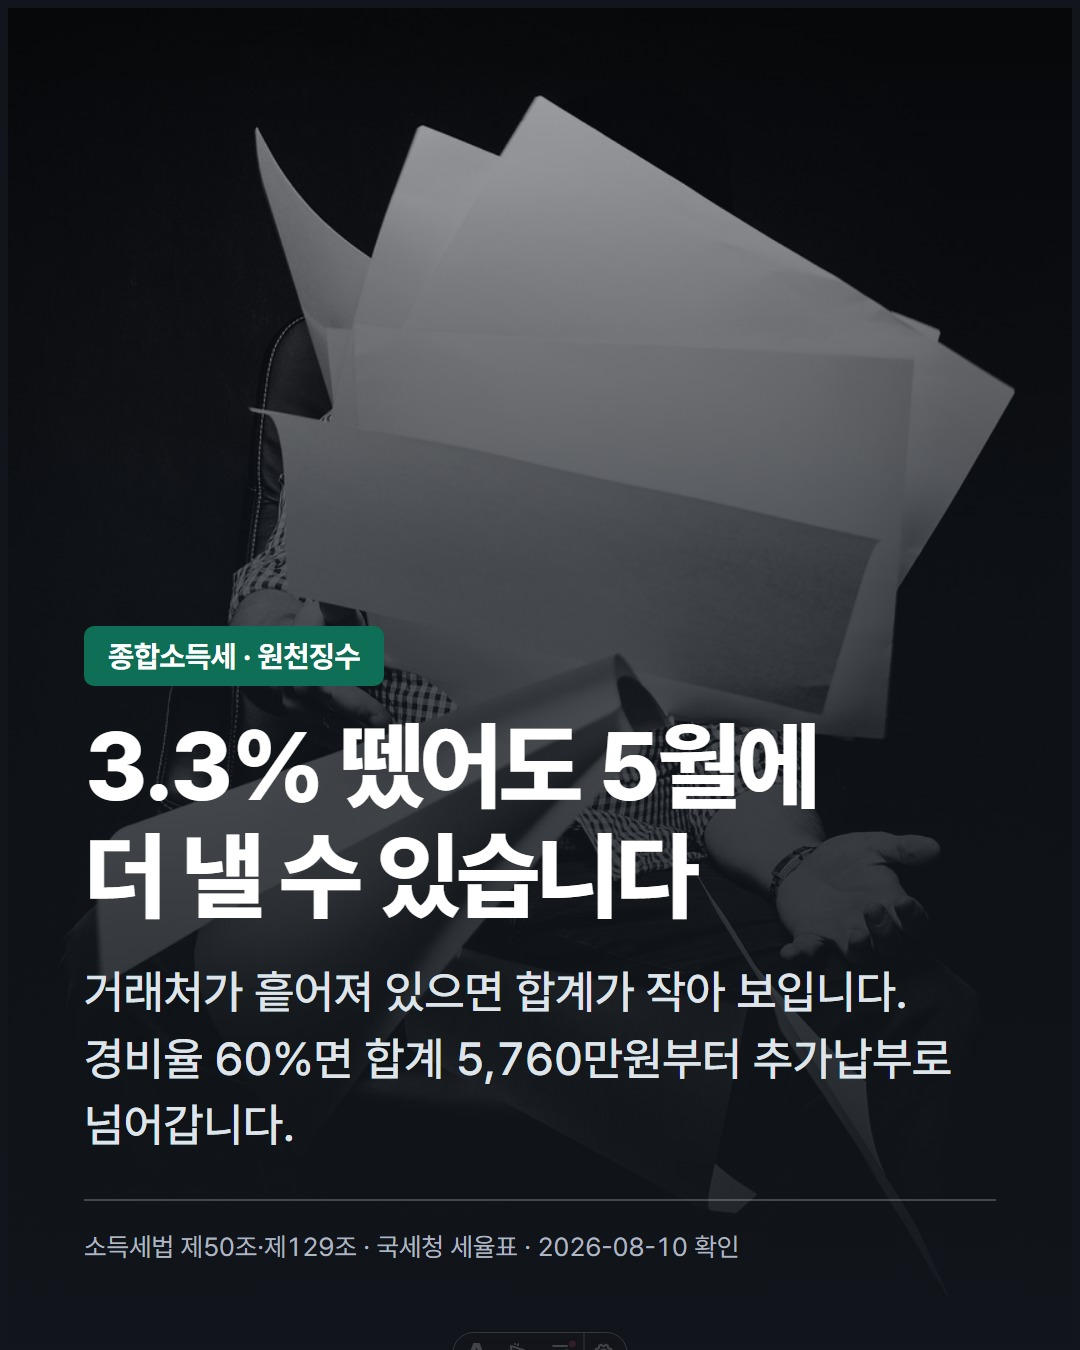
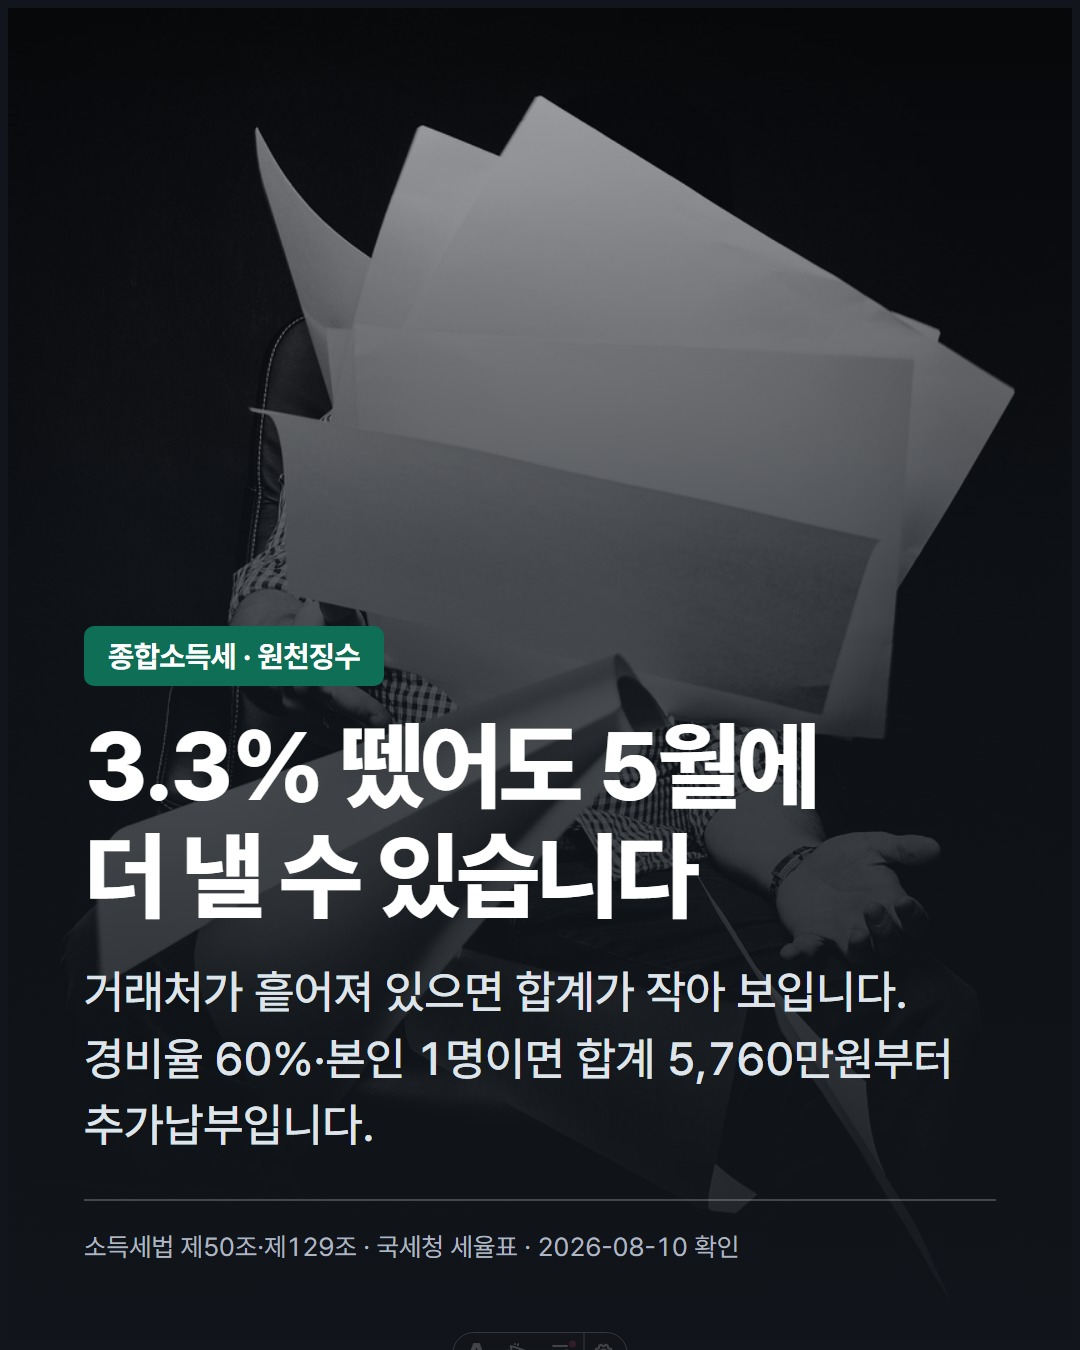
fix(cards): 표지 부제에 빠진 전제(본인 1명)를 넣는다
"경비율 60%면 5,760만원부터 추가납부"는 본인 1명 공제를 가정한 값인데
표지에는 경비율만 적혀 있었다. 표지는 사람들이 캡처해 가는 장이라
조건이 빠지면 다른 공제 상황인 독자가 자기 숫자로 읽는다.

카드 2가 이미 "본인 1명"을 sub 에 적고 있으므로 같은 방식으로 맞춘다.
테스트는 dependents: 1 을 전제로 대조하고 있어 통과했지만, 통과가
카드가 그 전제를 말했다는 뜻은 아니었다.

Changed region(s): [[0.0611, 0.7467, 0.8861, 0.8711]]

diff --git a/src/data/cards.ts b/src/data/cards.ts
@@ -287,7 +287,7 @@ export const cardSets: CardSet[] = [
         photoAlt: "사방으로 흩어진 서류 뭉치에 파묻힌 사람",
         badge: "종합소득세 · 원천징수",
         title: "3.3% 뗐어도\n5월에 더 낼 수 있습니다",
-        sub: "거래처가 흩어져 있으면 합계가 작아 보입니다. 경비율 60%면 합계 5,760만원부터 추가납부로 넘어갑니다.",
+        sub: "거래처가 흩어져 있으면 합계가 작아 보입니다. 경비율 60%·본인 1명이면 합계 5,760만원부터 추가납부입니다.",
         footnote: "소득세법 제50조·제129조 · 국세청 세율표 · 2026-08-10 확인",
       },
       {
